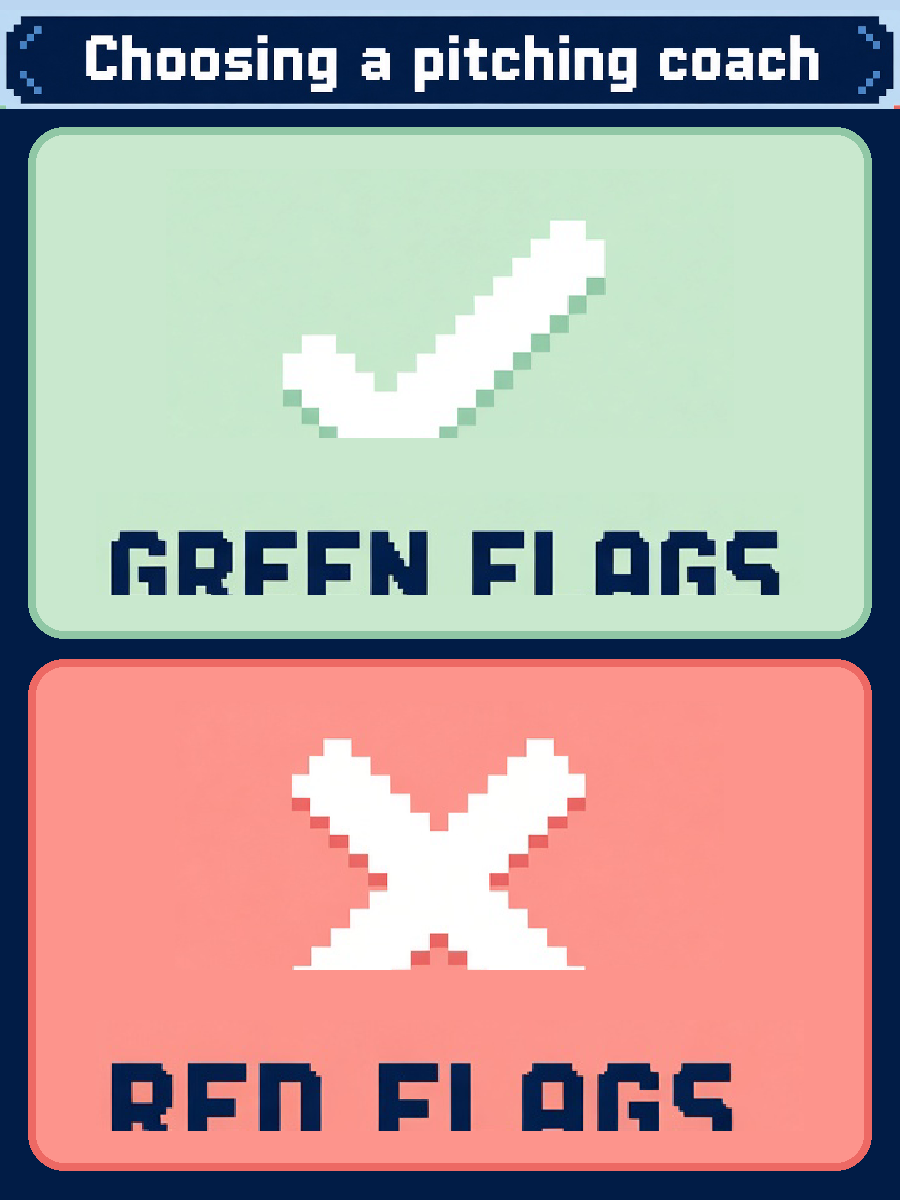
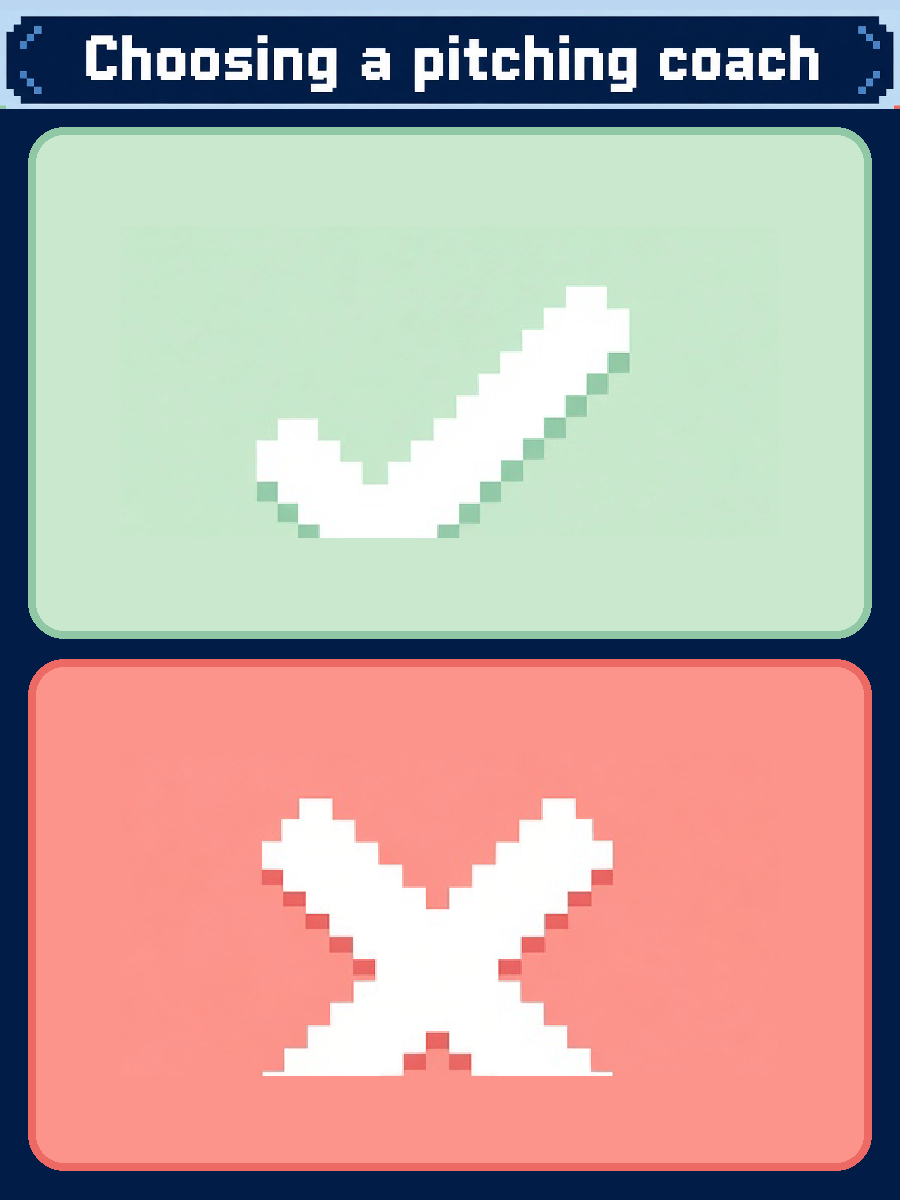
Keep 3:4 guide thumbs readable at card size.
Drop the tiny pixel labels that fell apart when scaled, and scale photo thumbs smoothly so the check, X, and nine-box stay clear.

Changed region(s): [[0.1244, 0.6167, 0.8089, 0.9558], [0.1244, 0.185, 0.7156, 0.4933], [0.6533, 0.4317, 0.8711, 0.4933]]

diff --git a/src/app/globals.css b/src/app/globals.css
@@ -2721,7 +2721,7 @@ a.reviews-verified:focus-visible {
   border: 2px solid #0f1a2e;
 }
 .magnet-card-art img {
-  width: 4.6rem;
+  width: 6.1rem;
   height: auto;
   image-rendering: pixelated;
 }
@@ -2729,6 +2729,7 @@ a.reviews-verified:focus-visible {
   width: 100%;
   height: 100%;
   object-fit: cover;
+  image-rendering: auto;
 }
 .magnet-card-kicker {
   margin: 0.55rem 0 0;
